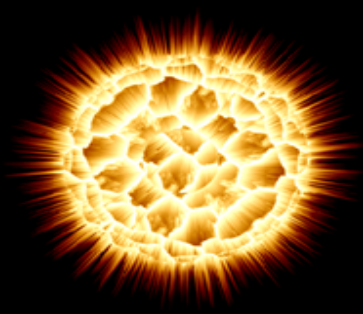
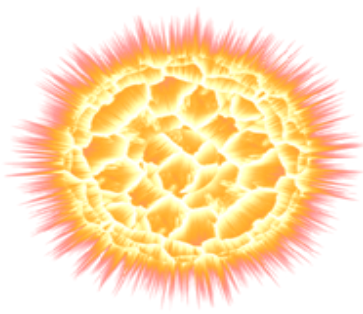
Transparency in textures instead of code

diff --git a/x2-gameproject/x2-gameproject/x2-gameproject/ResourceManager.cs b/x2-gameproject/x2-gameproject/x2-gameproject/ResourceManager.cs
@@ -99,13 +99,15 @@ namespace X2Game
                         texture = Texture2D.FromStream(device, fileStream);
 
                         //Replace the color BLACK with 100% transparency - TODO: this might be very slow
-                        Color[] bits = new Color[texture.Width * texture.Height];
-                        texture.GetData(bits);
-                        for (int i = 0; i < bits.Length; i++)
-                        {  
-                           if((bits[i].PackedValue & 0xFFFFFF) == 0) bits[i] = Color.FromNonPremultiplied(0,0,0,0);
-                        }
-                        texture.SetData(bits);
+//                        Color[] bits = new Color[texture.Width * texture.Height];
+//                        texture.GetData(bits);
+//                        for (int i = 0; i < bits.Length; i++)
+//                        {  
+//                           if((bits[i].PackedValue & 0xFFFFFF) == 0) bits[i] = Color.FromNonPremultiplied(0,0,0,0);
+//                        }
+//                        texture.SetData(bits);
+
+						Console.WriteLine("Texture \"" + textureID + "\" loaded.");
                     }
                 }
                 catch(Exception ex)

diff --git a/x2-gameproject/x2-gameproject/x2-gameproject/Particle.cs b/x2-gameproject/x2-gameproject/x2-gameproject/Particle.cs
@@ -27,7 +27,7 @@ namespace X2Game
             rotation = template.GetValue<float>(ParticleValues.InitialRotation);
             size = template.GetValue<float>(ParticleValues.InitialSize);
             secondsRemaining = template.GetValue<float>(ParticleValues.LifeTime);
-            texture = texture = template.GetValue<Texture2D>(ParticleValues.Texture);
+            texture = template.GetValue<Texture2D>(ParticleValues.Texture);
             centre = new Vector2(texture.Width / 2, texture.Height / 2);
             alpha = 1.0f - template.GetValue<float>(ParticleValues.InitialAlpha);
         }

diff --git a/x2-gameproject/x2-gameproject/x2-gameproject/MainMenuState.cs b/x2-gameproject/x2-gameproject/x2-gameproject/MainMenuState.cs
@@ -44,6 +44,8 @@ namespace X2Game {
 				spawnParticle = false;
 			else if (keyboard.IsKeyDown (Keys.S))
 				ParticleEngine.SpawnParticle (new Vector2 (rand.Next (800), rand.Next (600)), ResourceManager.getParticleTemplate ("fireball.xml"));
+			else if (keyboard.IsKeyDown(Keys.L))
+				ParticleEngine.SpawnParticle (new Vector2 (rand.Next (800), rand.Next (600)), ResourceManager.getParticleTemplate ("blueEnergyBall.xml"));
 		}
 		
 		public override GameState getNextState ()
